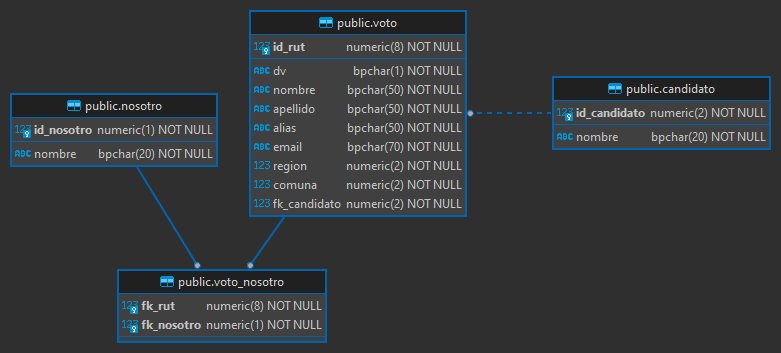
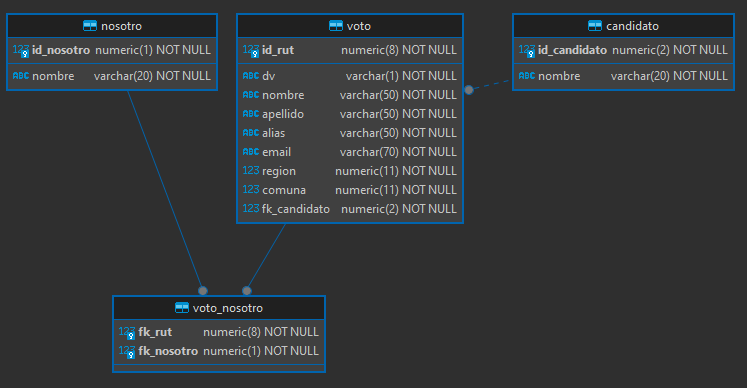
1.3.0 mejoras
- ajuste de domino
- cambio de tipo de dato en DB, actualización de MER DB
- nuevo script de prueba
- formateo código

Changed region(s): [[0.0, 0.0312, 1.0, 0.9972], [0.2155, 0.6232, 0.2463, 0.7167]]

diff --git a/v/js/ambiente/constantes.js b/v/js/ambiente/constantes.js
@@ -1,6 +1,6 @@
 export const AMBIENTE =
   'producción'
-  //'desarrollo'
+  // 'desarrollo'
   ;
 const URL_SERVICIO =
   'http://localhost/xampp/Sistema-de-Votacion/'

diff --git a/ms/comuna/listarComunas.php b/ms/comuna/listarComunas.php
@@ -1,5 +1,5 @@
 <?php
-header("Access-Control-Allow-Origin: *");
+header("Access-Control-Allow-Origin: http://127.0.0.1"); // TODO: Cambiar el dominio segun el servidor en que este
 header("Content-Type: application/json");
 
 if ($_SERVER['REQUEST_METHOD'] !== 'POST') {

diff --git a/ms/voto/registrarVoto.php b/ms/voto/registrarVoto.php
@@ -1,5 +1,5 @@
 <?php
-header("Access-Control-Allow-Origin: *");
+header("Access-Control-Allow-Origin: http://127.0.0.1"); // TODO: Cambiar el dominio segun el servidor en que este
 header("Content-Type: application/json");
 
 if ($_SERVER['REQUEST_METHOD'] !== 'POST') {

diff --git a/ms/candidato/listarCandidatos.php b/ms/candidato/listarCandidatos.php
@@ -1,5 +1,5 @@
 <?php
-header("Access-Control-Allow-Origin: *");
+header("Access-Control-Allow-Origin: http://127.0.0.1"); // TODO: Cambiar el dominio segun el servidor en que este
 header("Content-Type: application/json");
 
 if ($_SERVER['REQUEST_METHOD'] !== 'GET') {

diff --git a/ms/region/listarRegiones.php b/ms/region/listarRegiones.php
@@ -1,5 +1,5 @@
 <?php
-header("Access-Control-Allow-Origin: *");
+header("Access-Control-Allow-Origin: http://127.0.0.1"); // TODO: Cambiar el dominio segun el servidor en que este
 header("Content-Type: application/json");
 
 if ($_SERVER['REQUEST_METHOD'] !== 'GET') {
